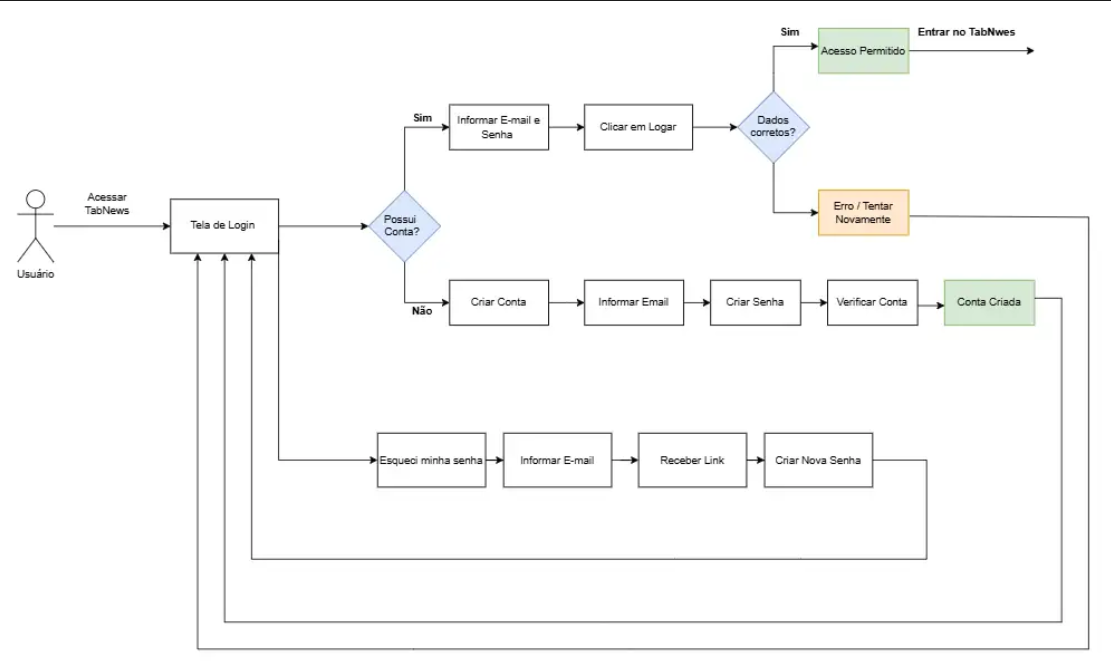
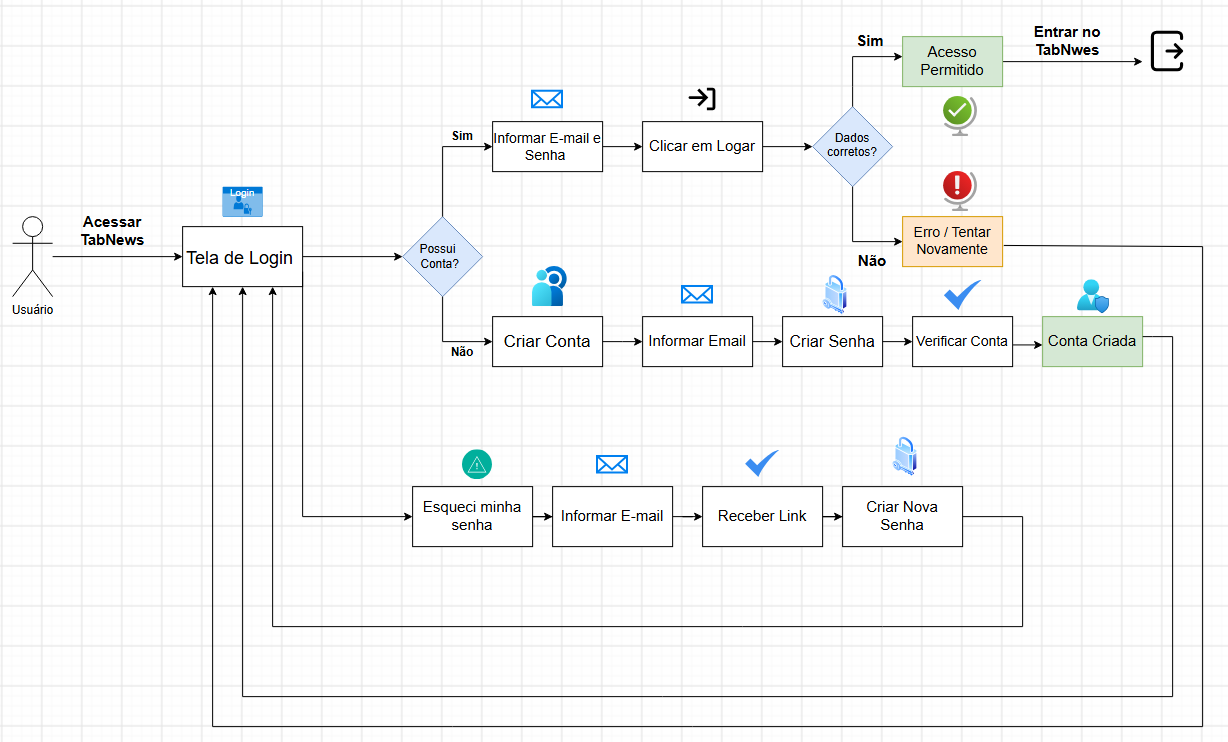
Iniciativas Extras

diff --git a/docs/Base/1.3.IniciativasExtras.md b/docs/Base/1.3.IniciativasExtras.md
@@ -5,3 +5,82 @@ entrega.
 
 Apresentar links para comprobatórios que evidenciem qualquer que seja a
 realização extra conferida pela equipe no escopo da entrega.
+
+
+## Cronograma 
+
+Um cronograma é uma estrutura visual, que ajuda na organização e gerenciamento de atividades de um projeto, departamento ou evento. Ele é uma ferramenta empresarial essencial que garante que todas as pessoas envolvidas entendam suas responsabilidades, tarefas designadas e prazos a serem cumpridos de forma clara e fácil.
+
+### Participantes 
+
+Todos os participantes do grupo participaram da elaboração do cronograma e estão descritos na tabela a seguir:
+
+| Membro | GitHub | Matrícula |
+| :--- | :--- | :--- |
+| Arthur Fernandes Silva de Jesus | [@arthurfernandesj](https://github.com/arthurfernandesj) | 221022471 |
+| Caio Alexandre Ornelas Silva | --- | --- |
+| Giovana de Souza Fontes | [@GiovanaFontesS](https://github.com/GiovanaFontesS) | 231038644 |
+| Guilherme Moura da Silva Neto | --- | --- |
+| Isaac Menezes Pereira | --- | --- |
+| Leonardo Fachinello Bonetti | --- | --- |
+| Luciano Alves do Brasil Schindel | --- | --- |
+| Pablo Rodrigues Lima | --- | --- |
+| João Ramos Sousa Reis | --- | --- |
+| João Pedro Sampaio Maciel | --- | --- |
+
+**Tabela 1: Participantes da elaboração do cronograma**
+
+
+### SubEquipe 01
+
+| **Atividade** | **Título** | **Início de desenvolvimento** | **Entrega prevista** | **Entrega realizada** | **Responsáveis** |
+|---|---|---|---|---|---|
+| **1.1.1** | Artefato Generalista | 25/08 | 27/08 | 27/ 08 |  [Giovana Fontes](https://github.com/GiovanaFontesS) |
+| **1.1.2** | NFR Framework | 25/08 | 27/08 | 27/08 |  [Arthur Fernandes](https://github.com/arthurfernandesj)  |
+| **1.1.3** | Engenharia Reversa | 26/08 | 27/08 |  |  |
+| **1.1.4** | Modelagem BPMN | 25/08 | 27/08 | 27/08 | [Arthur Fernandes](https://github.com/arthurfernandesj) |
+| **1.1.5** | IA Generativa | 26/08 | 27/08 | 27/08 | [Giovana Fontes](https://github.com/GiovanaFontesS) |
+| **1.1.6** | Referências | 27/08 | 27/08 |  |  |
+
+### SubEquipe 02
+
+| **Atividade** | **Título** | **Início de desenvolvimento** | **Entrega prevista** | **Entrega realizada** | **Responsáveis** |
+|---|---|---|---|---|---|
+| **1.2.1** | Artefato Generalista | 27/08 | 27/08 |  |  |
+| **1.2.2** | NFR Framework | 27/08 | 27/08 |  |  |
+| **1.2.3** | Engenharia Reversa | 27/08 | 27/08 |  |  |
+| **1.2.4** | Modelagem BPMN | 27/08 | 27/08 |  |  |
+| **1.2.5** | IA Generativa | 27/08 | 27/08 |  |  |
+| **1.2.6** | Referências | 27/08 | 27/08 |  |  |
+
+### SubEquipe 03
+
+| **Atividade** | **Título** | **Início de desenvolvimento** | **Entrega prevista** | **Entrega realizada** | **Responsáveis** |
+|---|---|---|---|---|---|
+| **1.3.1** | Artefato Generalista | 27/08 | 27/08 |  |  |
+| **1.3.2** | NFR Framework | 28/08 | 27/08 |  |  |
+| **1.3.3** | Engenharia Reversa | 28/08 | 27/08 |  |  |
+| **1.3.4** | Modelagem BPMN | 01/08 | 27/08 |  |  |
+| **1.3.5** | IA Generativa | 28/08 | 27/08 |  |  |
+| **1.3.6** | Referências | 28/08 | 27/08 |  |  |
+
+## Projeto
+
+| **Atividade** | **Descrição** | **Início de desenvolvimento** | **Entrega prevista** | **Entrega realizada** | **Responsáveis** |
+|---|---|---|---|---|---|
+| [**Escopo do Produto**](https://2026.2-T01_G2_ProjetoForum/#/Projeto/EscopoProduto) | Definição do escopo, objetivos e funcionalidades do produto | 25/08 | 27/08 | 26/08 |  [Arthur Fernandes](https://github.com/arthurfernandesj) |
+| [**Equipe & Subequipes**](https://2026.2-T01_G2_ProjetoForum/#/Projeto/Equipe) | Organização da equipe e divisão das subequipes | 25/08 | 27/08 | 27/08 |  [Arthur Fernandes](https://github.com/arthurfernandesj) |
+| [**Metodologia & Processo**](https://2026.2-T01_G2_ProjetoForum/#/Projeto/Metodologia) | Definição da metodologia e do processo de desenvolvimento | 25/08 | 27/08 |  |  |
+| [**Atas de Reunião**](https://2026.2-T01_G2_ProjetoForum/#/Projeto/Atas/README) | Registro das reuniões, decisões e atividades realizadas pela equipe | 25/08 | 27/08 | 27/08 | [Giovana Fontes](https://github.com/GiovanaFontesS) |
+| [**Iniciativas Extras**](https://2026.2-T01_G2_ProjetoForum/#/Base/1.3.IniciativasExtras) | Registro das atividades complementares realizadas pela equipe | 25/08 | 27/08 | 27/08 | [Giovana Fontes](https://github.com/GiovanaFontesS) |
+| [**Ferramentas**](https://2026.2-T01_G2_ProjetoForum/#/Apoio/Ferramentas) | Documentação das ferramentas utilizadas durante o desenvolvimento | 25/09 | 27/09 | 26/08 |  [Arthur Fernandes](https://github.com/arthurfernandesj)  |
+
+## Bibliografia
+
+MIRO. O que é cronograma? Disponível em: https://miro.com/pt/cronograma/o-que-e-cronograma/. ***Acesso em: 27 mar. 2026.***
+
+## Histórico de Versões
+
+| Versão | Data | Descrição | Autor(es) | Revisor(es) | Detalhe da Revisão |
+| :---: | :---: | :--- | :---: | :---: | :--- |
+| 1.0 | 26/08/2026 | Criação da página de Iniciativas Extras |  [Giovana Fontes](https://github.com/GiovanaFontesS) |  [Arthur Fernandes](https://github.com/arthurfernandesj) | Criação dos cronogramas | 

diff --git a/docs/Projeto/Atas/ata-02.md b/docs/Projeto/Atas/ata-02.md
@@ -1,0 +1,54 @@
+# Ata de Reunião 02
+
+| Horário | Data | Duração | Plataforma | 
+|---|---|---|---|
+| 20:00 | 24/08/2026 | 16 minutos | Teams |
+
+## Participantes
+
+- Arthur Fernandes
+- Caio Alexandre
+- Giovana Fontes
+- Guilherme Moura
+- Isaac Menezes
+- Leonardo Fachinello
+- Pablo Rodrigues Lima 
+- João Ramos Sousa Reis
+- João Pedro Sampaio Maciel 
+
+---
+
+## Tópicos Discutidos e Decisões
+
+
+- Decisão de subgrupos;
+- Decisão de Atividades;
+- Divisão de Telas e Requisitos.
+- Prazo para entrega 1.
+
+### 2. Planejamento das Próximas Reuniões
+
+- **Parte 1:** O que foi feito para entrega 01.
+- **Parte 3:** O que falta para entrega 01.
+- **Parte 4:** Quem irá no dia da entrega.
+
+
+
+## Video da Reunião 
+
+
+<iframe 
+  width="560" 
+  height="315" 
+  src="https://www.youtube.com/embed/oF9BCjuiCMo" 
+  title="Ata 02 - Reunião Geral"
+  frameborder="0" 
+  allow="accelerometer; autoplay; clipboard-write; encrypted-media; gyroscope; picture-in-picture; web-share" 
+  allowfullscreen>
+</iframe>
+
+## Histórico de Versões
+
+| Versão | Data | Descrição | Autor(es) | Revisor(es) | Detalhe da Revisão |
+| :---: | :---: | :--- | :---: | :---: | :--- |
+| 1.0 | 26/08/2026 | Criação da página da Ata 02 Geral | [Giovana Fontes](https://github.com/GiovanaFontesS) | --- | Documento criado e estruturado para apresentar principais discuções e considerações da reunião 02 da equipe |

diff --git a/docs/Base/Relatórios/1.1.1.SubEquipe_01/1.ArtefatoGeneralista.md b/docs/Base/Relatórios/1.1.1.SubEquipe_01/1.ArtefatoGeneralista.md
@@ -290,8 +290,9 @@ pela subequipe.
 
 | Versão | Data | Descrição | Autor(es) | Revisor(es) | Detalhe da Revisão |
 | :---: | :---: | :--- | :---: | :---: | :--- |
-| 1.0 | 26/08/2026 | Criação da página dos Atefatos Generalista | [Arthur Fernandes](https://github.com/arthurfernandesj) |  [Giovana Fontes](https://github.com/GiovanaFontesS) | Documento criado direcionado aos artefatos escolhidos pela SubEquipe para a tela de Login|
+| 1.0 | 26/08/2026 | Criação da página dos Atefatos Generalista | [Arthur Fernandes](https://github.com/arthurfernandesj) |  [Giovana Fontes](https://github.com/GiovanaFontesS) | Documento criado direcionado aos artefatos escolhidos pela SubEquipe para a tela de Login.|
 | 1.1 | 26/08/2026 | Artefatos Generalista | [Giovana Fontes](https://github.com/GiovanaFontesS)  |  ´[Arthur Fernandes](https://github.com/arthurfernandesj) | Inserir artefatos feitos pela SubEquipe (Mapa Mental, 5W2H e Rich picture) |
 | 1.2 | 26/08/2026 | Adição de Tabelas de Relação |  [Giovana Fontes](https://github.com/GiovanaFontesS)  |  ´[Arthur Fernandes](https://github.com/arthurfernandesj) | Inserir tabelas de relação com demais artefatos| 
+
 
 

diff --git a/docs/_sidebar.md b/docs/_sidebar.md
@@ -8,6 +8,7 @@
   - [Metodologia & Processo](Projeto/Metodologia.md)
   - [Atas de Reunião](Projeto/Atas/README.md)
     - [Ata 01 · Reunião Geral](Projeto/Atas/ata-01.md)
+    - [Ata 02 - Divisão de tarefas](Projeto/Atas/ata-02.md)
 
 - **1. Desenho de Software (Base)**
   - [1. Visão Geral do Módulo](Base/1.Base.md)
